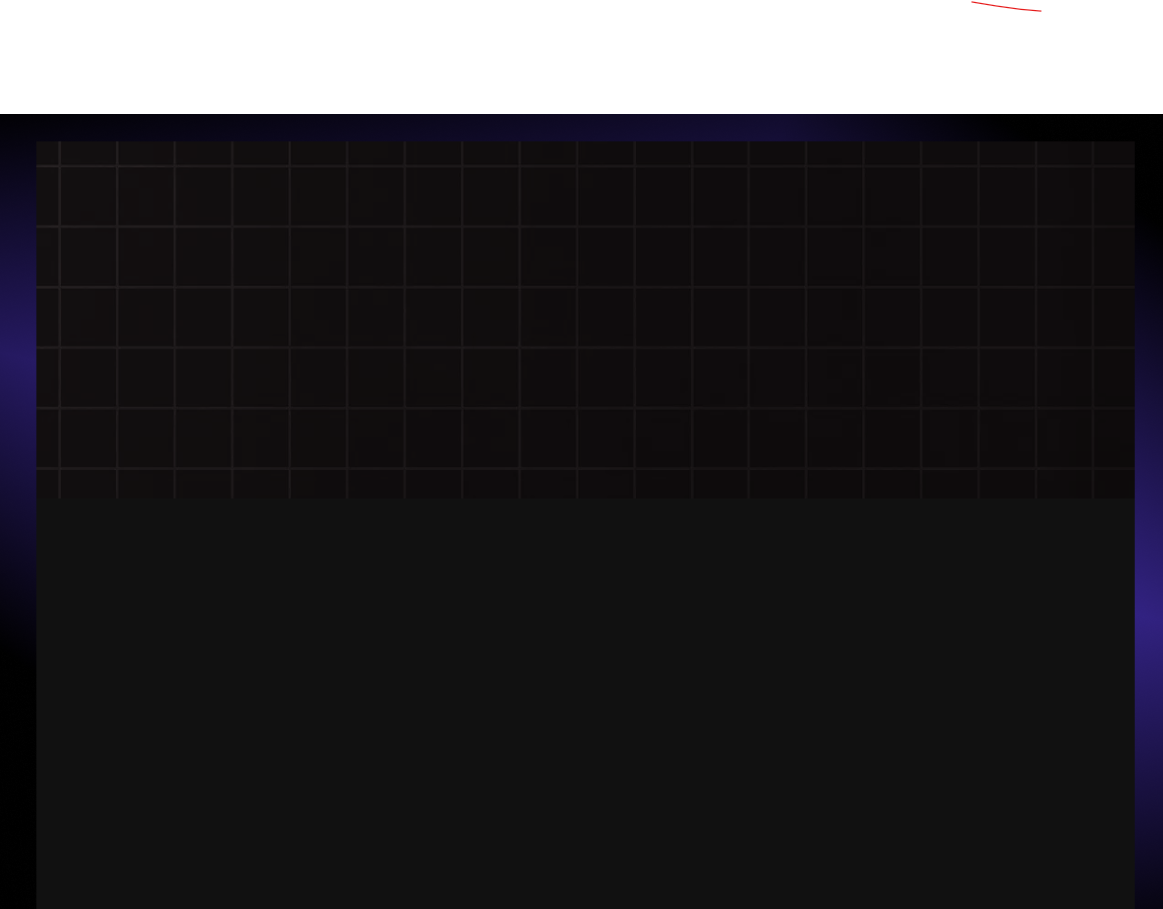
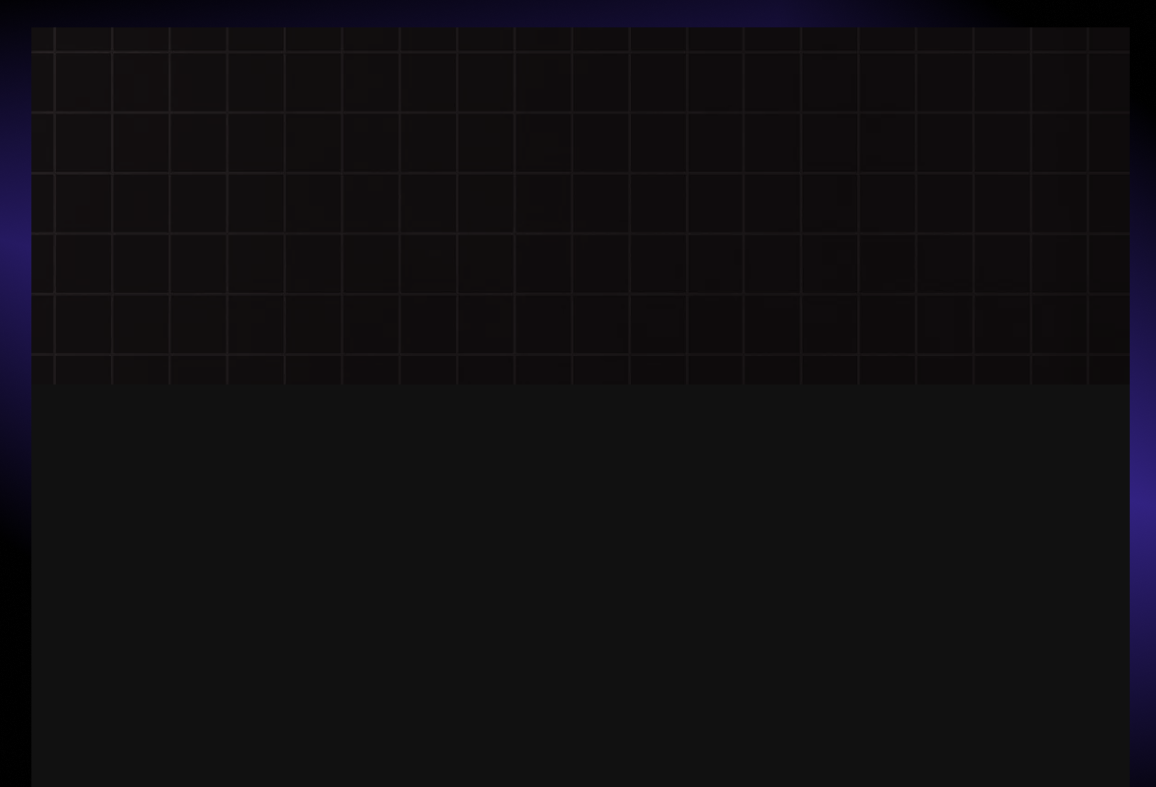
Add files via upload

Changed region(s): [[0.0, 0.0, 1.0, 0.5794], [0.9654, 0.2135, 1.0, 0.3355]]

diff --git a/style.css b/style.css
@@ -1,3 +1,4 @@
+/* style.css (updated for tighter spacing, responsive design, and lowered buttons) */
 @import url('https://fonts.googleapis.com/css2?family=Orbitron:wght@400&display=swap');
 
 * {
@@ -14,29 +15,26 @@ html, body {
   font-size: 16px;
 }
 
-/* -------------------------------------------------------------
-   Добавили картинку main.background.png на фон всей страницы
-------------------------------------------------------------- */
 body {
   position: relative;
-
-  /* первый слой — ваша фоновая картинка */
-  /* последующие — цветные градиенты, как было раньше */
   background:
-    url('img/mainbackground.png') no-repeat center center fixed,
+    /* цветные градиенты в углах */
+    linear-gradient(to bottom right, #4932BF 0%, black 50%) bottom right / 50% 50% no-repeat,
+    linear-gradient(to bottom left,  #4932BF 0%, black 50%) bottom left  / 50% 50% no-repeat,
+    linear-gradient(to top left,     #4932BF 0%, black 50%) top left     / 50% 50% no-repeat,
+    linear-gradient(to top right,    #4932BF 0%, black 50%) top right    / 50% 50% no-repeat,
+    /* базовый градиент */
+    linear-gradient(to bottom right, #4932BF 0%, black 50%);
+  background-color: #000;
+  background-repeat: no-repeat;
+  background-size: auto;
+  /* плавный переход к серому низу */
+  background-image:
     linear-gradient(to bottom right, #4932BF 0%, black 50%) bottom right / 50% 50% no-repeat,
     linear-gradient(to bottom left,  #4932BF 0%, black 50%) bottom left  / 50% 50% no-repeat,
     linear-gradient(to top left,     #4932BF 0%, black 50%) top left     / 50% 50% no-repeat,
     linear-gradient(to top right,    #4932BF 0%, black 50%) top right    / 50% 50% no-repeat,
     linear-gradient(to bottom, rgba(0,0,0,0) 0%, rgba(0,0,0,0) 50%, #f0f0f0 50%, #f0f0f0 100%);
-  background-size:
-    cover,
-    50% 50%,
-    50% 50%,
-    50% 50%,
-    50% 50%,
-    auto;
-  background-repeat: no-repeat;
 }
 
 .bg-grid {
@@ -95,11 +93,6 @@ body {
   text-decoration: none;
 }
 
-.nav-link.is-active {
-  color: #8C79C3;
-  font-weight: bold;
-}
-
 .login-btn {
   background: #161616;
   border: 1px solid #1E1E1E;
@@ -138,6 +131,7 @@ body {
   color: #9C9C9C;
   font-size: clamp(0.75rem, 2.5vw, 1rem);
   max-width: 90%;
+  /* увеличен отступ снизу для опускания кнопок */
   margin: 0.5rem 0 2.5rem;
   line-height: 1.4;
 }
@@ -172,27 +166,22 @@ body {
   padding: 0;
 }
 
-.btn__icon {
-  width: 16px;
-  height: 16px;
-}
-
 .profiles {
-  width: 100%;
-  max-width: 1400px;
-  display: flex;
-  flex-wrap: wrap;
-  gap: 60px;
-  justify-content: center;
-  padding: 40px 32px 60px;
+   width: 100%;
+   max-width: 1400px;        /* чуть шире, чтобы влезало больше места вокруг */
+   display: flex;
+   flex-wrap: wrap;
+   gap: 60px;                /* увеличили расстояние между карточками */
+   justify-content: center;
+   padding: 40px 32px 60px;  /* больше “воздуха” сверху/снизу */
 }
 
 .card {
   background: #1A1A1A;
   border-radius: 24px;
-  padding: 24px;
-  width: 350px;
-  text-align: center;
+  padding: 24px;            /* увеличили внутренние отступы */
+  width: 350px;             /* увеличили ширину карточки */
+   text-align: center;
 }
 
 .card .tag {
@@ -203,11 +192,12 @@ body {
 
 .card img {
   width: 100%;
-  height: 220px;
+  height: 220px;            /* фиксированная высота для всех картинок */
   border-radius: 20px;
   object-fit: cover;
   margin-bottom: 1rem;
 }
+
 
 .card h3 {
   color: #fff;
@@ -222,26 +212,37 @@ body {
   line-height: 1.4;
 }
 
-.social-links {
+.social-links,
+.card a.social-links {
   display: flex;
   gap: 5px;
   justify-content: center;
-}
-
-.social-links a {
   color: #9C9C9C;
   font-size: 0.625rem;
   text-decoration: underline;
 }
 
-/* Responsive */
+/* Responsive breakpoints */
 @media (max-width: 768px) {
-  .header { padding: 12px; }
-  .nav { gap: 12px; }
-  .title { margin-bottom: 0.25rem; }
-  .subtitle { margin: 0.25rem 0 2rem; }
-  .buttons { gap: 8px; }
-  .profiles { gap: 24px; padding: 16px 8px 24px; }
+  .header {
+    padding: 12px;
+  }
+  .nav {
+    gap: 12px;
+  }
+  .title {
+    margin-bottom: 0.25rem;
+  }
+  .subtitle {
+    margin: 0.25rem 0 2rem;
+  }
+  .buttons {
+    gap: 8px;
+  }
+  .profiles {
+    gap: 24px;
+    padding: 16px 8px 24px;
+  }
 }
 
 @media (max-width: 480px) {
@@ -266,7 +267,10 @@ body {
     width: 90%;
   }
 }
-
+.nav-link.is-active {
+  color: #8C79C3;
+  font-weight: bold;
+}
 /* === Карточка логина === */
 .login-card {
   max-width: 360px;
@@ -358,6 +362,14 @@ body {
   font-weight: 500;
 }
 
+/* Адаптив */
+@media (max-width: 400px) {
+  .login-card {
+    margin: 2rem 1rem;
+    padding: 1.5rem;
+  }
+}
+/* Централизованный call-to-action */
 .center-cta {
   width: 100%;
   text-align: center;
@@ -373,11 +385,4 @@ body {
   padding: 0.75rem 1.5rem;
   border-radius: 12px;
   box-shadow: 0 4px 12px rgba(0,0,0,0.3);
-}
-
-@media (max-width: 400px) {
-  .login-card {
-    margin: 2rem 1rem;
-    padding: 1.5rem;
-  }
 }

diff --git a/index.html b/index.html
@@ -1,3 +1,4 @@
+<!-- index.html -->
 <!DOCTYPE html>
 <html lang="ru">
 <head>
@@ -14,12 +15,13 @@
       <div class="logo">SiegeX</div>
       <nav class="nav">
         <a href="index.html"      class="nav-link">Home</a>
-        <a href="program.html"    class="nav-link">Programm</a>
-        <a href="AboutUs.html"    class="nav-link">AboutUs</a>
-        <a href="Major2025.html"  class="nav-link">Major 2025</a>
-        <a href="Sponsors.html"   class="nav-link">Sponsors</a>
+        <a href="program.html" class="nav-link">Programm</a>
+        <a href="AboutUs.html" class="nav-link">AboutUs</a>
+        <a href="Major2025.html" class="nav-link">Major 2025</a>
+        <a href="Sponsors.html" class="nav-link">Sponsors</a>
       </nav>
       <a href="login.html" class="btn login-btn">Log in R6s</a>
+
     </header>
     <main class="main-content">
       <h1 class="title">
@@ -32,9 +34,9 @@
       <div class="buttons">
         <a href="https://www.ubisoft.com/en-gb/" class="btn">More Info R6s</a>
         <a href="login.html" class="btn btn--purple">Buy Tickets</a>
-        <a href="https://www.ubisoft.com/en-gb/" class="btn btn--purple btn--icon">
+        <a href="https://www.ubisoft.com/en-gb/" class="btn btn--purple">
           <img src="img/arrow.svg" alt="" class="btn__icon">
-        </a>
+          </a>
       </div>
     </main>
     <section class="profiles">
@@ -77,6 +79,3 @@
         </div>
       </div>
     </section>
-  </div>
-</body>
-</html>
